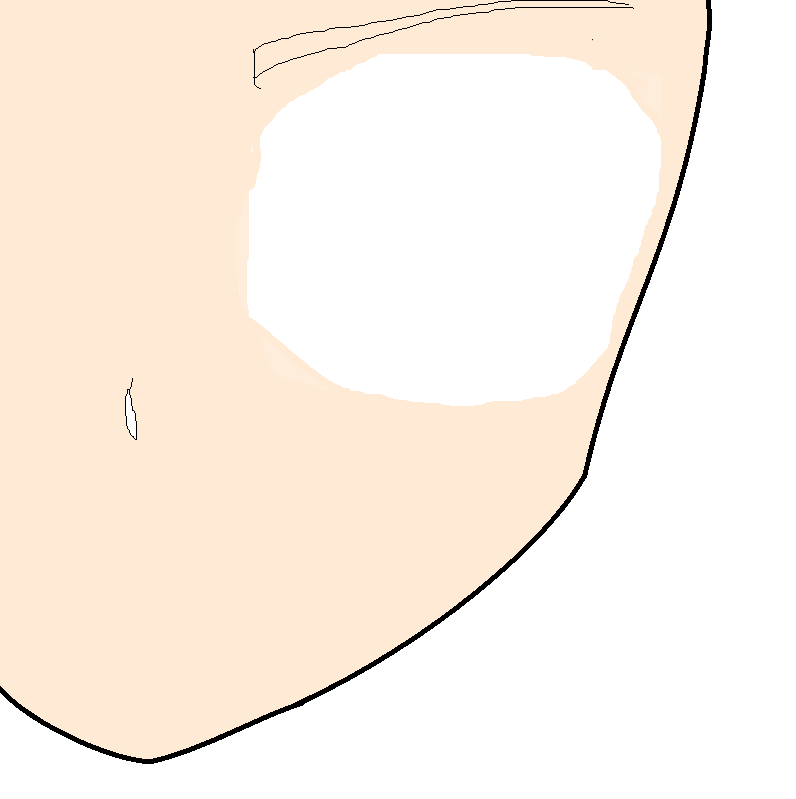
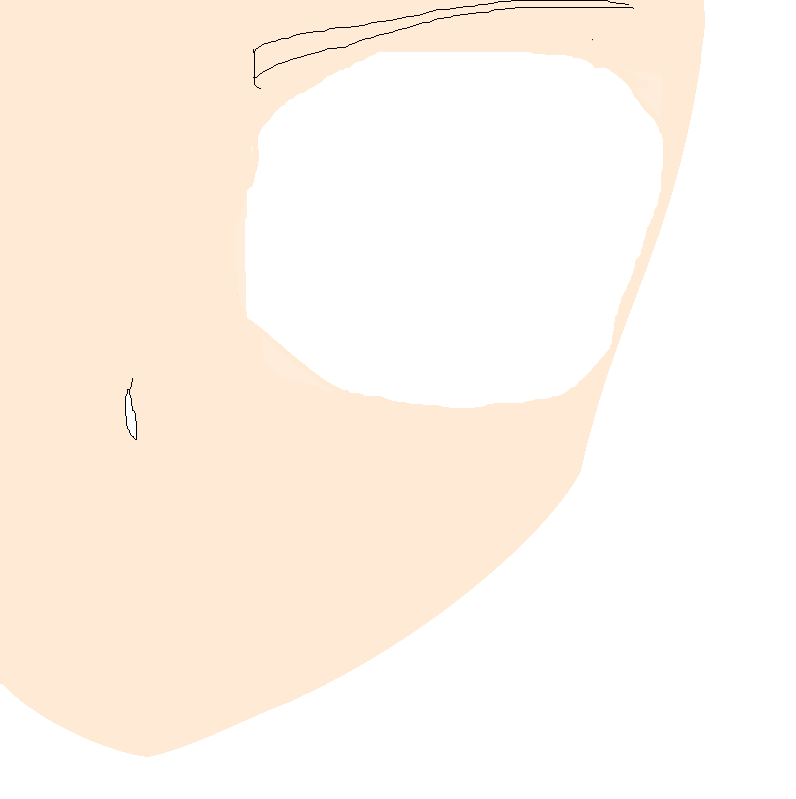
目移動スライダー追加

diff --git a/docs/component/slider.js b/docs/component/slider.js
@@ -2,20 +2,13 @@
 function createLayerBottun(canvasOBJ) {
     var li_element = document.createElement('div');
     li_element.textContent = canvasOBJ.name;
-    li_element.class = "item"
-    li_element.style.border = "1px solid #000000" ;
+    li_element.class = "layerBottun"
 
-    var visibilityEL = document.createElement('input');
-    visibilityEL.type = "button" ;
-    visibilityEL.value = "表示/非表示";
-    visibilityEL.id = "visibility" + canvasOBJ.index ;
+    var visibilityEL = createBottun('表示/非表示', "visibility" + canvasOBJ.index);
     visibilityEL.onclick = function() { hidden(canvasOBJ) };
     li_element.appendChild(visibilityEL)
 
-    var dropEL = document.createElement('input');
-    dropEL.type = "button" ;
-    dropEL.value = "削除";
-    dropEL.id = "drop" + canvasOBJ.index ;
+    var dropEL = createBottun('削除', "drop" + canvasOBJ.index);
     canvasOBJ.dropEL = dropEL ;
     dropEL.onclick = function() { drop(canvasOBJ) };
     li_element.appendChild(dropEL)
@@ -62,6 +55,7 @@ function drop(canvasOBJ) {
 }
 
 function typeCommonSlider(canvasOBJ) {
+    if (canvasOBJ.index === undefined) { canvasOBJ.index = "" }
     var index = canvasOBJ.index
 
     if (canvasOBJ.sliderType == "Img") {
@@ -87,7 +81,7 @@ function typeCommonSlider(canvasOBJ) {
 
         var functionType = sliderList.functionType
         sliderList.List.forEach(function(slider){
-            slider = sliderCreate(slider.idName + index, "range", slider.paramSet[0], slider.paramSet[1], slider.paramSet[2], slider.paramSet[3], slider.label) ;
+            var slider = sliderCreate(slider.idName + index, "range", slider.paramSet[0], slider.paramSet[1], slider.paramSet[2], slider.paramSet[3], slider.label) ;
             container.appendChild(slider) ;
             //スライダーの種類でイベントを分ける。
             if (canvasOBJ.sliderType == "Circle") {
@@ -100,17 +94,18 @@ function typeCommonSlider(canvasOBJ) {
             if (canvasOBJ.sliderType == "Img") {
                 slider.addEventListener('input', function(){ moveImage(canvasOBJ); });
             }
+            if (canvasOBJ.sliderType == "Move") {
+                slider.addEventListener('input', function(){ moveCanvas(canvasOBJ); });
+            }
         });
         container.appendChild(document.createElement('hr'))
     });
 
     return container;
 }
+
 function createInitBottun(canvasOBJ) {
-    var initEL = document.createElement('input');
-    initEL.type = "button" ;
-    initEL.value = "初期値へ";
-//    initEL.id = canvasOBJ;
+    var initEL = createBottun("初期値へ")
     canvasOBJ.initEL = initEL ;
     initEL.onclick = function() {
         canvasOBJ.sliderAll.forEach(function(sliderList){

diff --git a/docs/component/draw.js b/docs/component/draw.js
@@ -30,7 +30,31 @@ function mabutaInit() {
 
     mabutaLayer.appendChild(typeCommonSlider(canvasOBJ)) ;
     moveImage(canvasOBJ);
+
+    //まぶた変更ボタン
+    var containerEL = document.getElementById("mabutaContainer") ;
+    var i = 1;
+    canvasOBJ.urlList.forEach(function(url){
+        var changeEL = createBottun("まぶた変更" + i)
+        changeEL.onclick = function() { mabutaChange(canvasOBJ, url) };
+        containerEL.appendChild(changeEL)
+        i++
+    });
+
+    //まぶたごと移動
+    var canvasOBJ = meMove;
+    mabutaLayer.appendChild(typeCommonSlider(canvasOBJ)) ;
+
 }
+
+function mabutaChange(canvasOBJ, url) {
+    canvasOBJ.imageOBJ.src = url
+    moveImage(canvasOBJ);
+}
+//輪郭タイプ===================================================================================================
+function kyoro() {
+}
+
 
 //輪郭タイプ===================================================================================================
 function baseAuto(context) {
@@ -209,4 +233,21 @@ function moveImage(canvasOBJ) {
     scaleXValueEL.innerText = scale_xEL.value
     scaleYValueEL.innerText = scale_yEL.value
     radValueEL.innerText = radEL.value
+}
+
+//輪郭タイプ===================================================================================================
+function moveCanvas(canvasOBJ) {
+    var canvasContaierMoveEL = document.getElementById("canvasContainer") ;
+    var moveXEL = document.getElementById("me_move_left")
+    var moveYEL = document.getElementById("me_move_top")
+
+    canvasContaierMoveEL.style.top = moveYEL.value/1 + "px";
+    canvasContaierMoveEL.style.left = moveXEL.value/1 + 180 + "px";
+
+    //値表示
+    var moveXValueEL = moveXEL.parentNode.lastChild ;
+    var moveYValueEL = moveYEL.parentNode.lastChild ;
+
+    moveXValueEL.innerText = moveXEL.value / 100 + 'mm'
+    moveYValueEL.innerText = moveYEL.value / 100 + 'mm'
 }

diff --git a/docs/config/doukou.js b/docs/config/doukou.js
@@ -1,15 +1,8 @@
 
 let doukou = jsyaml.load(`
-id: "doukou"
 name: "瞳孔"
 sliderType: "Circle"
 createType: "fill"
-# line: #[step, min, max, value]
-#     size:  [5,0,200,55]
-#     bold:  [1,0,20,12]
-#     color: [195,100,70]
-# fill:
-#     color: [230,100,60]
 sliderAll:
   - Name: "輪郭"
     List:
@@ -21,7 +14,7 @@ sliderAll:
         paramSet: [1,0,20,12]
   - Name: "輪郭色"
     List:
-      - idName: "colorHfill"
+      - idName: "colorHfillOuter"
         label: "色相[H]"
         paramSet: [5,0,360,195]
       - idName: "colorSfill"
@@ -32,7 +25,7 @@ sliderAll:
         paramSet: [5,0,100,70]
   - Name: "塗り色"
     List:
-      - idName: "colorHfillOuter"
+      - idName: "colorHfill"
         label: "色相[H]"
         paramSet: [5,0,360,230]
       - idName: "colorSfillOuter"

diff --git a/docs/index.html b/docs/index.html
@@ -16,6 +16,7 @@
   <script src="./config/mabuta.js"></script>
   <script src="./config/kao.js"></script>
   <script src="./config/newItem.js"></script>
+  <script src="./config/meMove.js"></script>
 <!--  <script src="./common.js"></script>-->
 <link href="./eye.css" rel="stylesheet"/>
 
@@ -32,6 +33,7 @@
     <canvas id="kaoCanvas"></canvas>
     <canvas id="mabutaCanvas"></canvas>
     <div id="canvasContainer">
+      <!-- canvasは生成-->
     </div>
   </div>
 

diff --git a/docs/config/mabuta.js b/docs/config/mabuta.js
@@ -2,10 +2,12 @@
 let mabuta = jsyaml.load(`
 id: "mabuta"
 name: "まぶた"
-index: ""
 sliderType: "Img"
 createType: "mabuta"
 url: "./img/mabuta.png"
+urlList:
+  - "./img/mabuta.png"
+  - "./img/mabuta2.png"
 sliderAll:
   - Name: "位置"
     id: "move"
@@ -29,5 +31,4 @@ sliderAll:
       - idName: "move_img_rad"
         label: "回転"
         paramSet: [1,-180,180,0]
-
 `);

diff --git a/docs/component/common.js b/docs/component/common.js
@@ -62,3 +62,12 @@ function pathCircle(context, x, y, r) {
      false                   // 方向: true=反時計回りの円、false=時計回りの円
    );
 }
+
+function createBottun(label, id) {
+     var bottunEL = document.createElement('input');
+     bottunEL.type = "button" ;
+     bottunEL.value = label;
+     bottunEL.id = id ;
+
+     return bottunEL
+}

diff --git a/docs/eye.css b/docs/eye.css
@@ -55,7 +55,7 @@
 }
 
 #canvasContainer {
-    position: relative;
+    position: absolute;
     background: white;
     border: 0px solid #000000;
     top: 0px;
@@ -100,4 +100,9 @@
     min-width: 290px;
     margin-left: 30px;
     display: block;
+}
+
+#meMoveSlider {
+    height: 200px;
+    background: white;
 }

diff --git a/docs/config/newItem.js b/docs/config/newItem.js
@@ -1,7 +1,6 @@
 
 function createNewItem() {
 var newItem = jsyaml.load(`
-id: "new"
 name: "new"
 sliderType: "Circle"
 createType: "fill"

diff --git a/docs/config/rinkakuIn.js b/docs/config/rinkakuIn.js
@@ -1,6 +1,5 @@
 
 let rinkakuIn = jsyaml.load(`
-id: "rinkakuIn"
 name: "黒目[中輪郭]"
 sliderType: "Circle"
 createType: "line"

diff --git a/docs/config/rinkakuOut.js b/docs/config/rinkakuOut.js
@@ -1,6 +1,5 @@
 
 let rinkakuOut = jsyaml.load(`
-id: "rinkakuOut"
 name: "黒目[輪郭]"
 dependency: [2,3]
 sliderType: "Circle"

diff --git a/docs/config/Iris1.js b/docs/config/Iris1.js
@@ -1,6 +1,5 @@
 
 let Iris1 = jsyaml.load(`
-id: "Iris1"
 name: "虹彩1"
 dependency: [1]
 sliderType: "Iris"

diff --git a/docs/config/Iris2.js b/docs/config/Iris2.js
@@ -1,6 +1,5 @@
 
 let Iris2 = jsyaml.load(`
-id: "Iris2"
 name: "虹彩2"
 dependency: [1]
 sliderType: "Iris"
